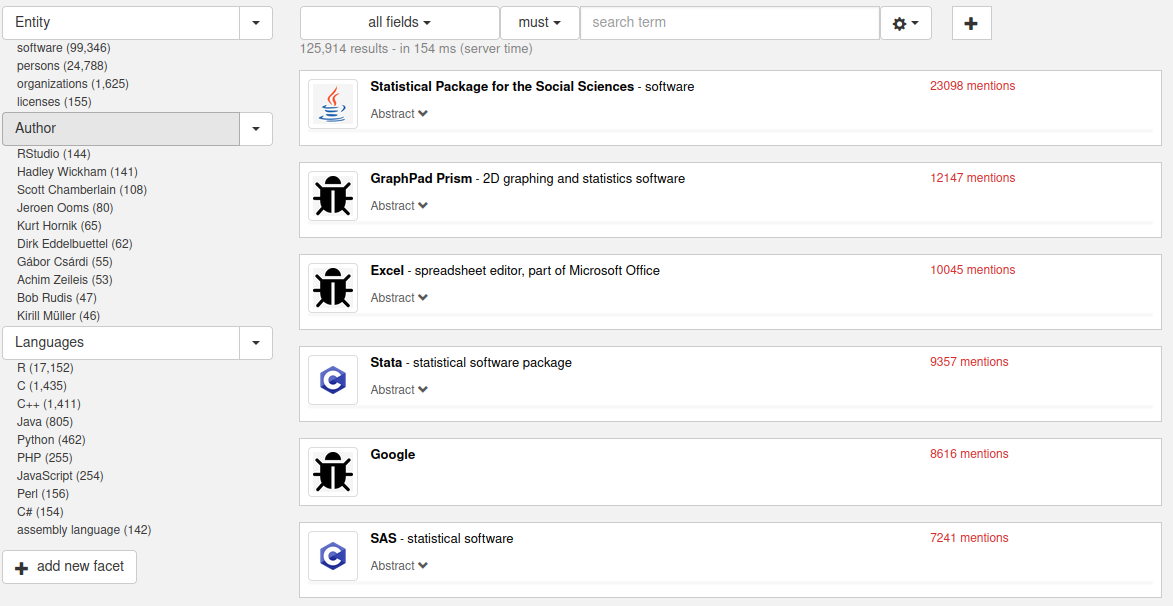
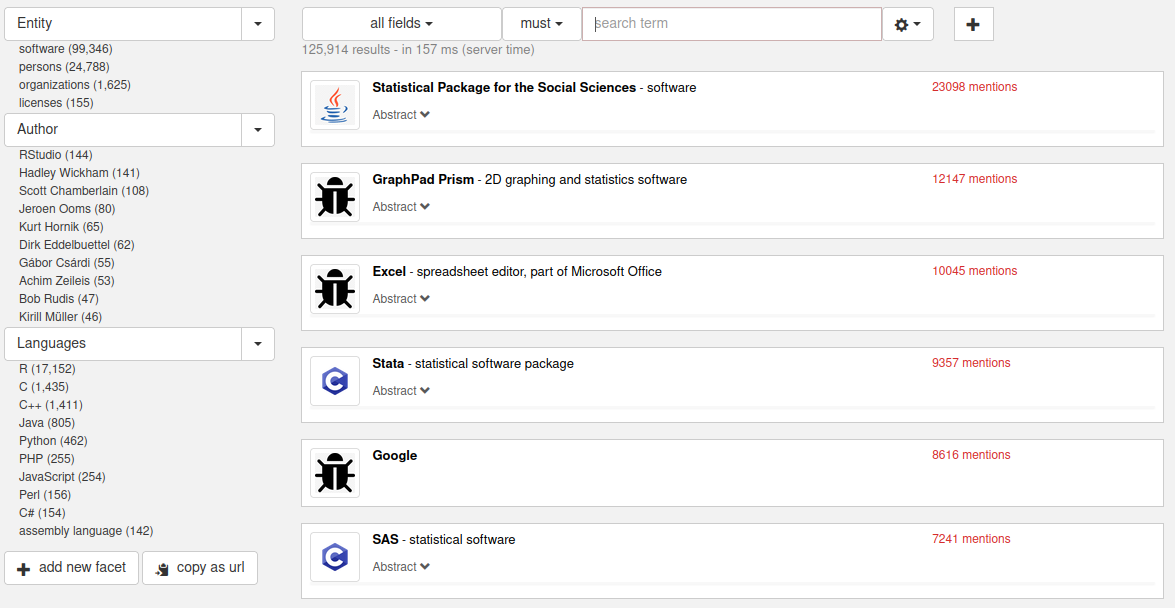
update frontend documentation

diff --git a/doc/simple_frontend_linking.md b/doc/simple_frontend_linking.md
@@ -18,6 +18,13 @@ http://localhost:8050/frontend/index.html?Entity=software&Languages=R
 
 The `Entity` facet has 4 possible values (`software`, `persons`, `organizations`, `licenses`), which allows to restrict the results to these 4 main entity types.  
 
+
+Linking to all the software of a particular author: 
+
+```
+http://localhost:8050/frontend/index.html?Author=Jeroen%20Ooms&Entity=software
+```
+
 - **search query**: this parameter applies a search query based on the Lucene search qyery syntax. The query can optionally be prefixed by a search field (`all fields` by default, `software`, `authors`, `mentions`, `licenses`, `programming_language`) and a modality (`must` by default, `should` or `must_not`), separated by a colon `:`:
 
 ```
@@ -43,8 +50,9 @@ For convenience, we provide a custom URL parameter to link to a R Package via it
 localhost:8050/frontend/index.html?packageR=STAR
 ```
 
-<!--- 
 ## Contextual URL
 
-At any points of usage of the frontend, it is possible to copy the corresponding URL into the clipboard. 
---->
+At any points of usage of the frontend, it is possible to copy the corresponding URL into the clipboard by clicking the `copy as url` button. 
+
+![KB frontend](images/frontend03.png)
+
